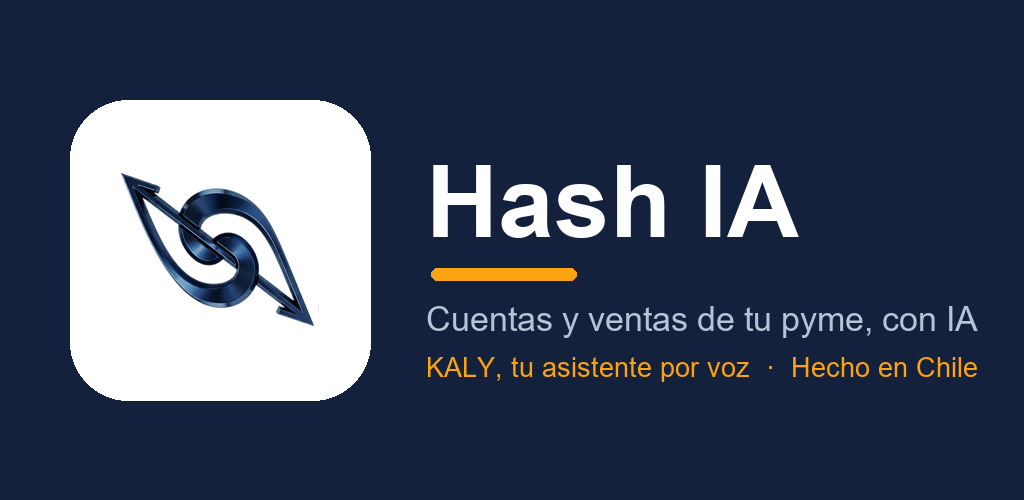
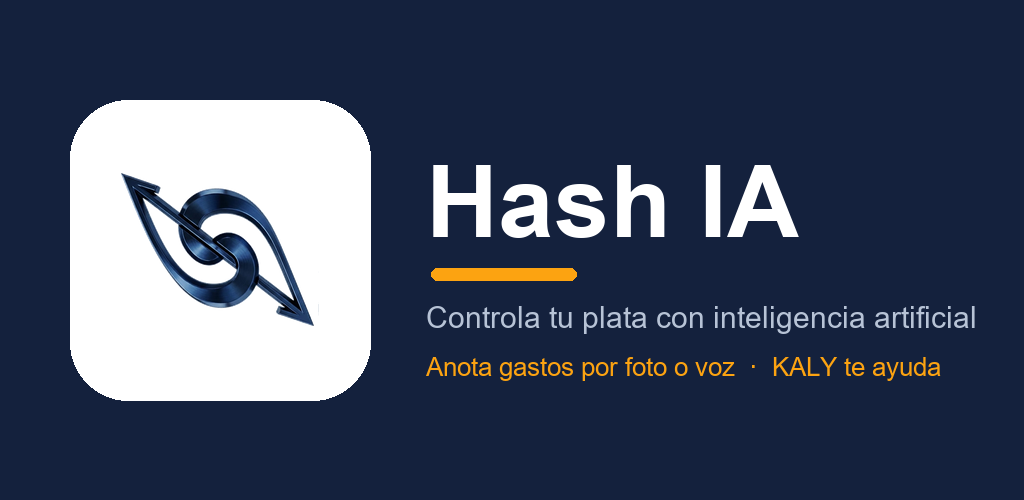
docs(play): reenfoque PERSONAL primero — feature graphic + 4 capturas de finanzas personales, ficha (Finanzas, descripciones) actualizada

Changed region(s): [[0.4062, 0.6, 0.9688, 0.69], [0.4062, 0.72, 0.9688, 0.78]]

diff --git a/docs/google-play-publicacion.md b/docs/google-play-publicacion.md
@@ -20,34 +20,33 @@ paquete `cl.atikodigital.hashia`, versión **3.73 (versionCode 107)**.
 
 **Nombre de la app (30):** `Hash IA`
 
+> **Enfoque: PERSONAL primero.** La ficha lidera con finanzas personales (público amplio: cualquier persona) y menciona el negocio/pyme como uso secundario.
+
 **Descripción corta (80):**
-`Cuentas y ventas de tu pyme con IA: gastos, IVA, SII y KALY, tu asistente de voz.`
+`Controla tu plata con IA: anota gastos por foto o voz y sabe cuánto te queda.`
 
 **Descripción completa (pegar tal cual):**
 ```
-Hash IA es la inteligencia artificial que le lleva las cuentas y las ventas a las pymes de Chile. Su asistente se llama KALY.
+Hash IA es la app que te ayuda a controlar tu plata con inteligencia artificial. Su asistente se llama KALY.
 
-CUENTAS (finanzas)
-• Registra gastos e ingresos por foto de la boleta/factura, por voz o escribiéndole a KALY.
-• Calcula el IVA automáticamente (neto + 19%).
-• Concilia con el SII y con la cartola del banco (Match) para que tu mes cuadre.
-• Reportes y flujo de caja al día.
-
-VENTAS
-• Arma tu catálogo por voz o con la foto del menú.
-• Toma pedidos en el chat y genera el PDF para enviar por WhatsApp.
-• Cobra el delivery por comuna.
+TUS FINANZAS PERSONALES
+• Anota tus gastos e ingresos por foto de la boleta, por voz o escribiéndole a KALY.
+• Registra tu sueldo y mira cuánto te queda del mes, en tiempo real.
+• Entiende en qué se te va la plata, sin planillas ni Excel.
 
 KALY, TU ASISTENTE
-• Háblale o escríbele: registra movimientos, te responde dudas y te ayuda a ordenar el negocio.
+• Háblale o escríbele: registra lo que gastaste y te dice cuánto llevas.
+
+¿TIENES UN NEGOCIO O EMPRENDIMIENTO?
+Hash IA también le lleva las cuentas y las ventas a tu pyme: calcula el IVA, concilia con el SII y el banco, arma tu catálogo, toma pedidos con PDF para WhatsApp y cobra delivery por comuna.
 
 PLANES
-• Plan gratis para partir, y planes de pago con más "shots" (1 shot = 1 movimiento registrado por la IA).
+• Plan gratis para partir, y planes con más "shots" (1 shot = 1 movimiento registrado por la IA).
 
-Hecha en Chile, para pymes de Chile. Cancela cuando quieras.
+Hecha en Chile. Cancela cuando quieras.
 ```
 
-**Category / Categoría:** `Empresa` (Business). *(También válido: Finanzas.)*
+**Category / Categoría:** `Finanzas` (Finance). *(Encaja con el enfoque personal.)*
 
 **Correo de contacto:** `atikodigital@gmail.com`
 **Sitio web:** `https://hash.atikodigital.cl`
@@ -57,7 +56,7 @@ Hecha en Chile, para pymes de Chile. Cancela cuando quieras.
 ### Gráficos — ✅ LISTOS en `docs/play-assets/`
 - [x] **Ícono** 512×512 → `docs/play-assets/icon-512.png`
 - [x] **Gráfico destacado (Feature graphic)** 1024×500 → `docs/play-assets/feature-graphic-1024x500.png`
-- [x] **Capturas de teléfono** (1080×1920, 4): `screenshot-1-foto.png`, `screenshot-2-kaly.png`, `screenshot-3-cuadre.png`, `screenshot-4-pedido.png`
+- [x] **Capturas de teléfono** (1080×1920, 4, enfoque PERSONAL): `screenshot-1-foto.png` (anota gastos por foto), `screenshot-2-balance.png` (cuánto te queda del mes), `screenshot-3-kaly.png` (KALY por voz), `screenshot-4-sueldo.png` (sueldo vs gastos)
   - Son capturas de marketing (marca + función). Opcional: reemplazar/sumar capturas reales tomadas en tu teléfono con la app instalada (aún más auténtico).
 
 ## 3. App access / Acceso a la app (login para el revisor)
